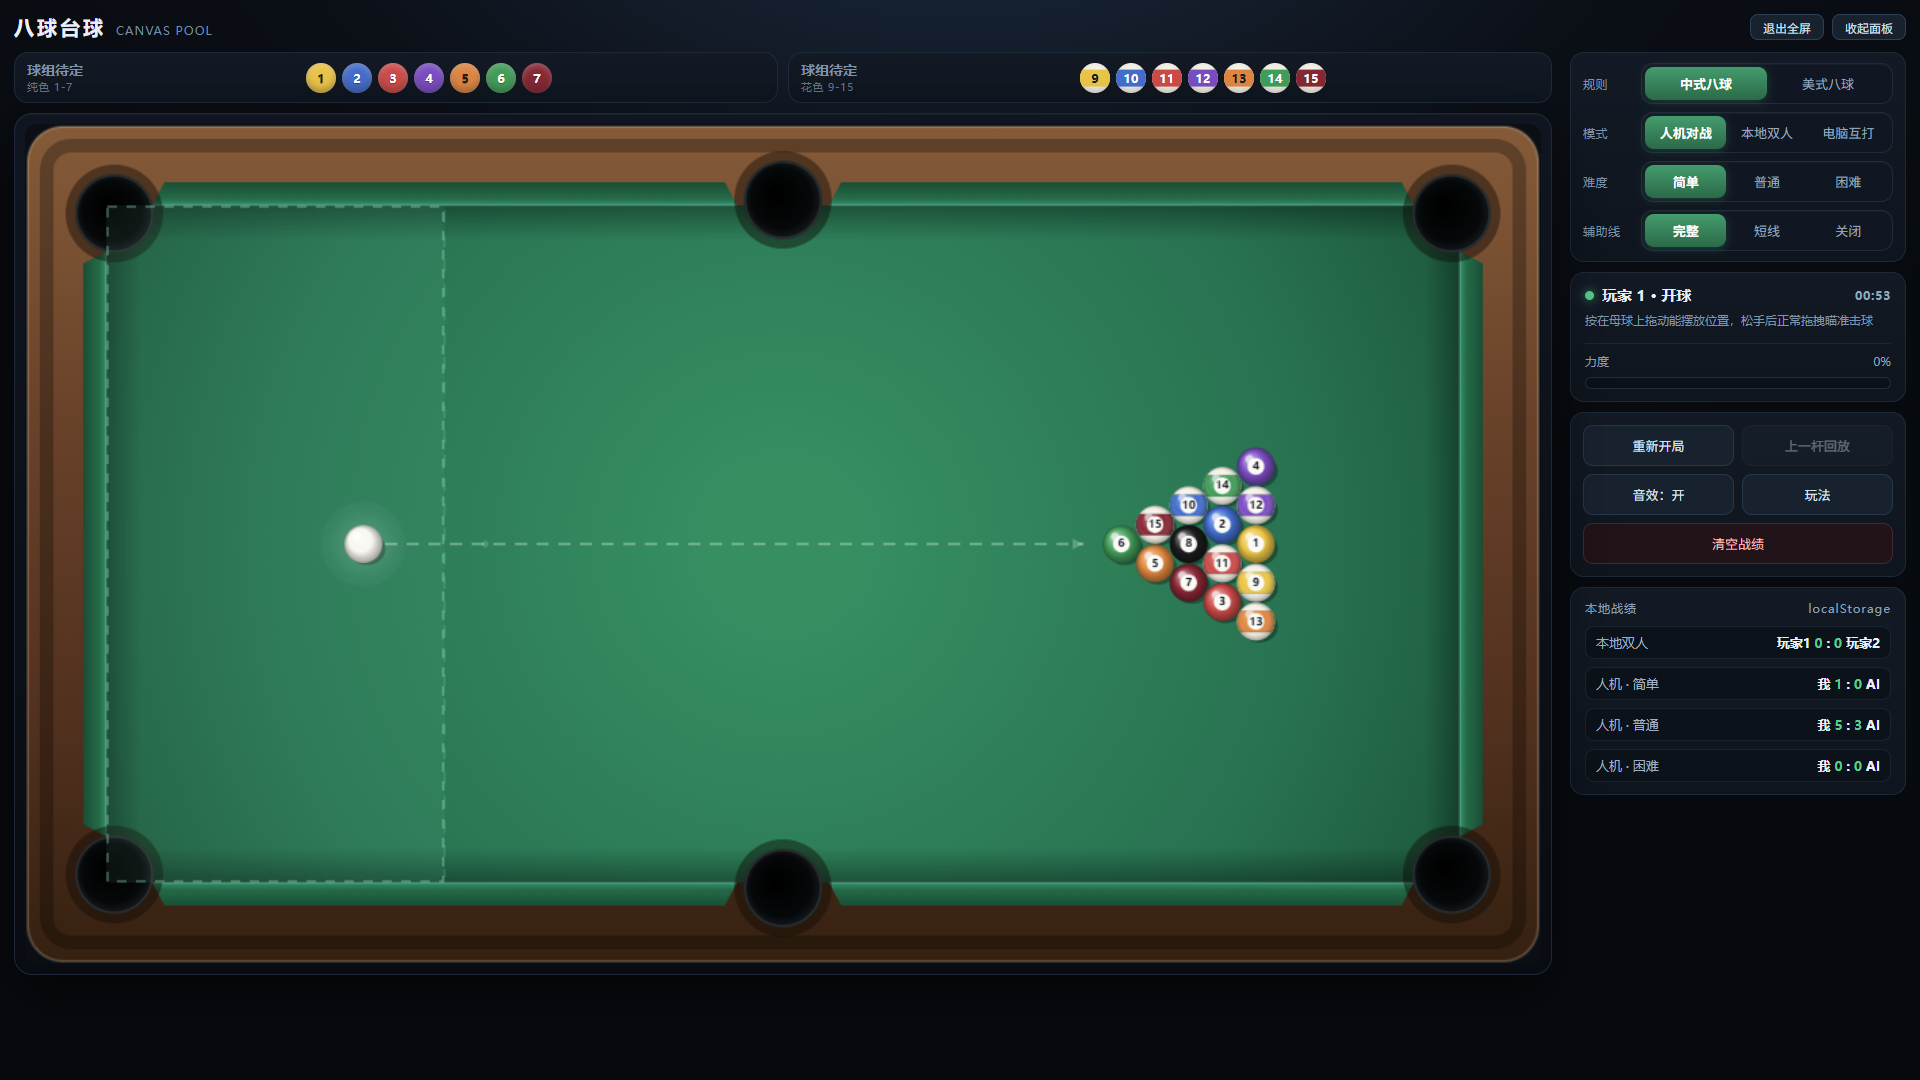
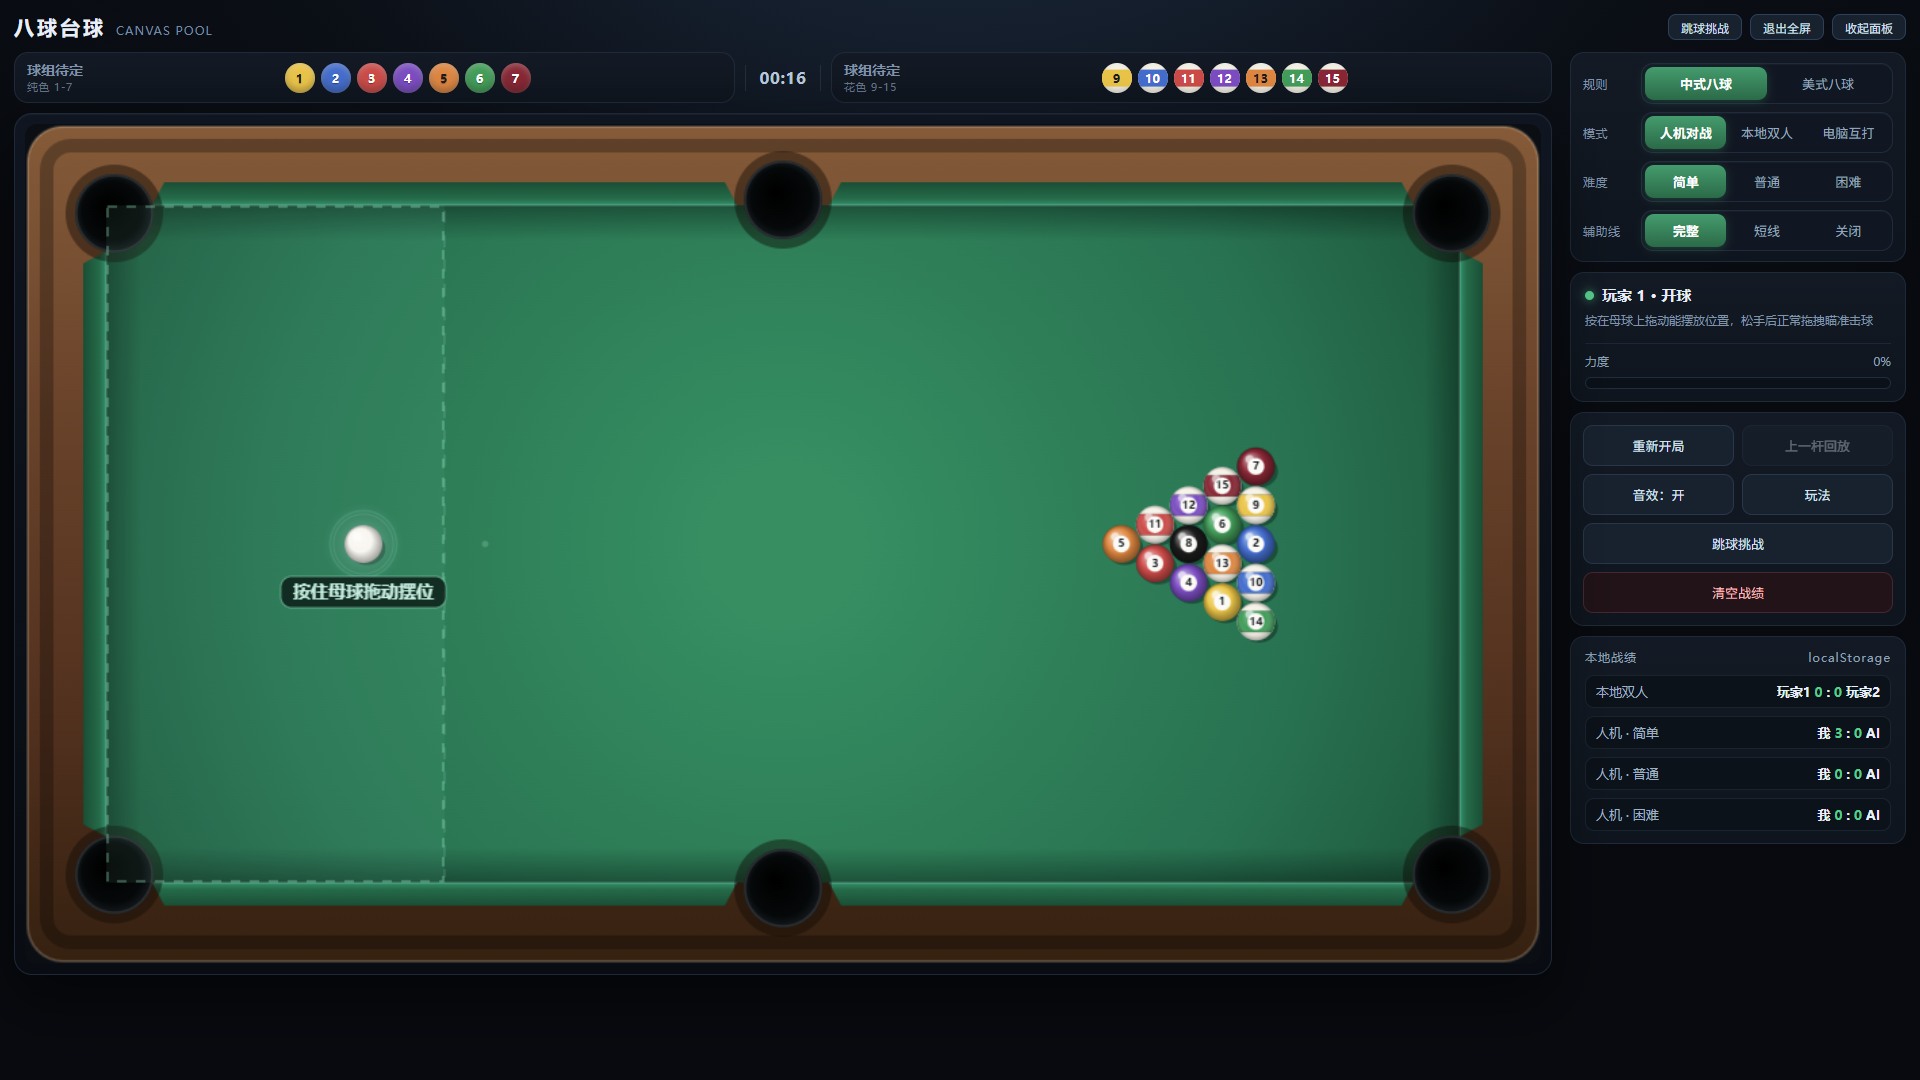
docs: 更新README文件

diff --git a/README.md b/README.md
@@ -15,17 +15,21 @@
 
 ![](./imgs/1.png)
 
-玩耍界面：
+打球：
 
 ![](./imgs/2.png)
 
-设置界面：
+跳球挑战：
+
+![](./imgs/4.png)
+
+设置面板：
 
 ![](./imgs/3.png)
 
 移动端：
 
-![](./imgs/4.jpg)
+![](./imgs/5.jpg)
 
 ## 快速开始
 
@@ -36,14 +40,14 @@
 
 ## 操作方式
 
-| 操作                 | 说明                                                                                                                                                                                                     |
-| -------------------- | -------------------------------------------------------------------------------------------------------------------------------------------------------------------------------------------------------- |
-| 瞄准                 | 在台面上按下并拖动，**拖拽方向与击球方向相反**（像把球杆往后拉）                                                                                                                                         |
-| 力度                 | 拖拽距离越远力度越大（约 84 逻辑像素就到满力，是原来的 1/3），右侧力度条实时显示百分比，**拖拽时母球旁也会浮出自己的百分比**（画在垂直于击球方向的一侧，手指和瞄准虚线都挡不到；贴库时自动换到空的一边） |
-| 击球                 | 松开鼠标 / 手指即出杆，所有球静止后才允许下一杆                                                                                                                                                          |
-| 开球摆放             | 开球时母球可在开球区内先拖动摆好：**按住母球本体拖动**（按在球上才算摆放），松手即完成摆放，之后正常拖拽瞄准                                                                                             |
+| 操作                 | 说明                                                                                                                                                                                                                                                                                                                                                                                                                                                                                        |
+| -------------------- | ------------------------------------------------------------------------------------------------------------------------------------------------------------------------------------------------------------------------------------------------------------------------------------------------------------------------------------------------------------------------------------------------------------------------------------------------------------------------------------------- |
+| 瞄准                 | 在台面上按下并拖动，**拖拽方向与击球方向相反**（像把球杆往后拉）                                                                                                                                                                                                                                                                                                                                                                                                                            |
+| 力度                 | 拖拽距离越远力度越大（约 84 逻辑像素就到满力，是原来的 1/3），右侧力度条实时显示百分比，**拖拽时母球旁也会浮出自己的百分比**（画在垂直于击球方向的一侧，手指和瞄准虚线都挡不到；贴库时自动换到空的一边）                                                                                                                                                                                                                                                                                    |
+| 击球                 | 松开鼠标 / 手指即出杆，所有球静止后才允许下一杆                                                                                                                                                                                                                                                                                                                                                                                                                                             |
+| 开球摆放             | 开球时母球可在开球区内先拖动摆好：**按住母球本体拖动**（按在球上才算摆放），松手即完成摆放，之后正常拖拽瞄准                                                                                                                                                                                                                                                                                                                                                                                |
 | 手中球               | 犯规后获得手中球，按在母球上拖到合适位置松手完成摆放：中式可放全台任意空位，美式只能放回开球区。**母球旁会浮一个小药丸标签「按住母球拖动摆位」**（默认贴在球下方，靠近台边或下方有球时自动翻到上方，字号按画布缩放反算；一按下就消失，电脑回合/弹窗时不出现）。**摆位时辅助线会自动指向离母球最近的可打球**（定组后只算己方球，清完球只剩黑八），拖到哪儿就重新找一次，不会指空处。拖动途中若被系统打断（切窗口、系统手势、窗口失焦），这次拖拽直接作废、母球回原位，不会在没松手时自己落位 |
-| 黑八指定袋（仅美式） | 美式八球轮到自己打黑八时，点击目标袋口指定，须打进指定袋才算赢；中式八球不用选，进任意袋都算赢                                                                                                           |
+| 黑八指定袋（仅美式） | 美式八球轮到自己打黑八时，点击目标袋口指定，须打进指定袋才算赢；中式八球不用选，进任意袋都算赢                                                                                                                                                                                                                                                                                                                                                                                              |
 
 台面上的虚线只指**母球出发方向**（`完整` 档连同一处碰撞点，`短线` 档只有一小段方向，`关闭` 档不画），不做碰撞后的多段轨迹预测。
 
